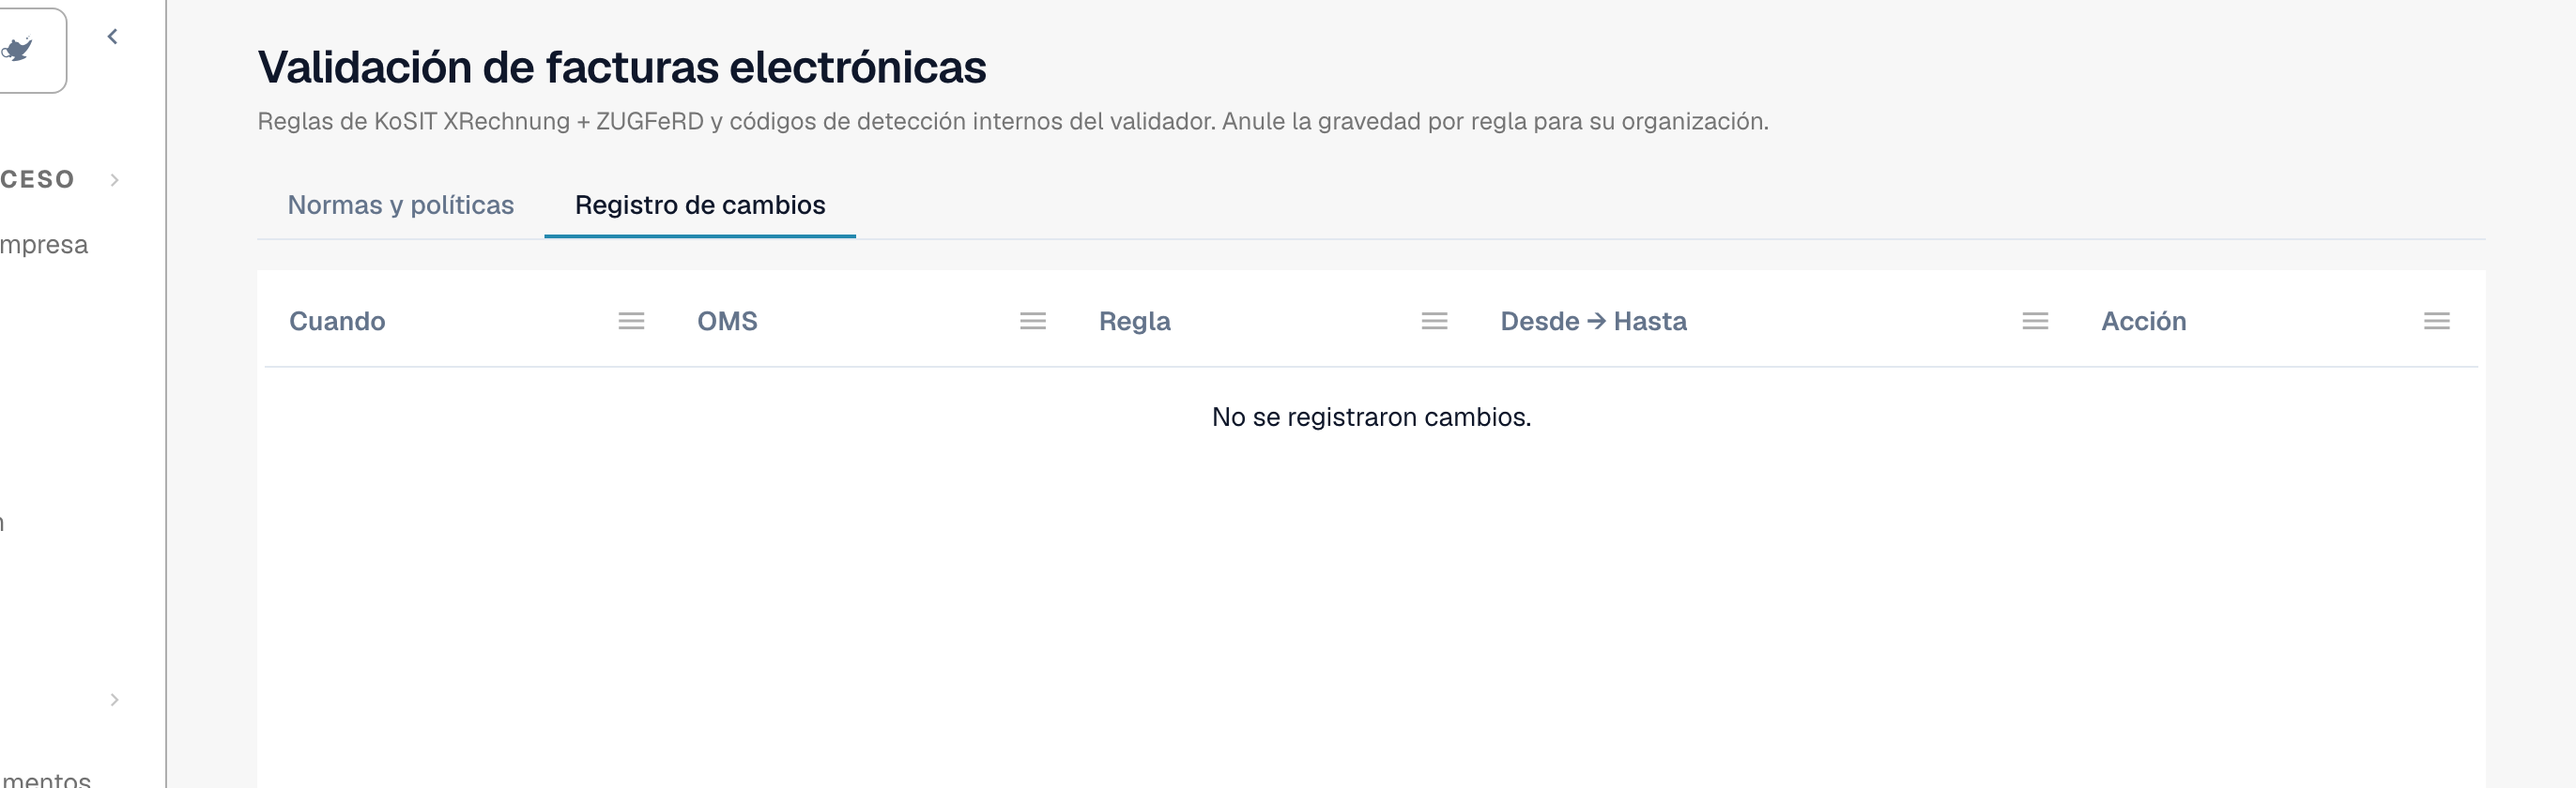
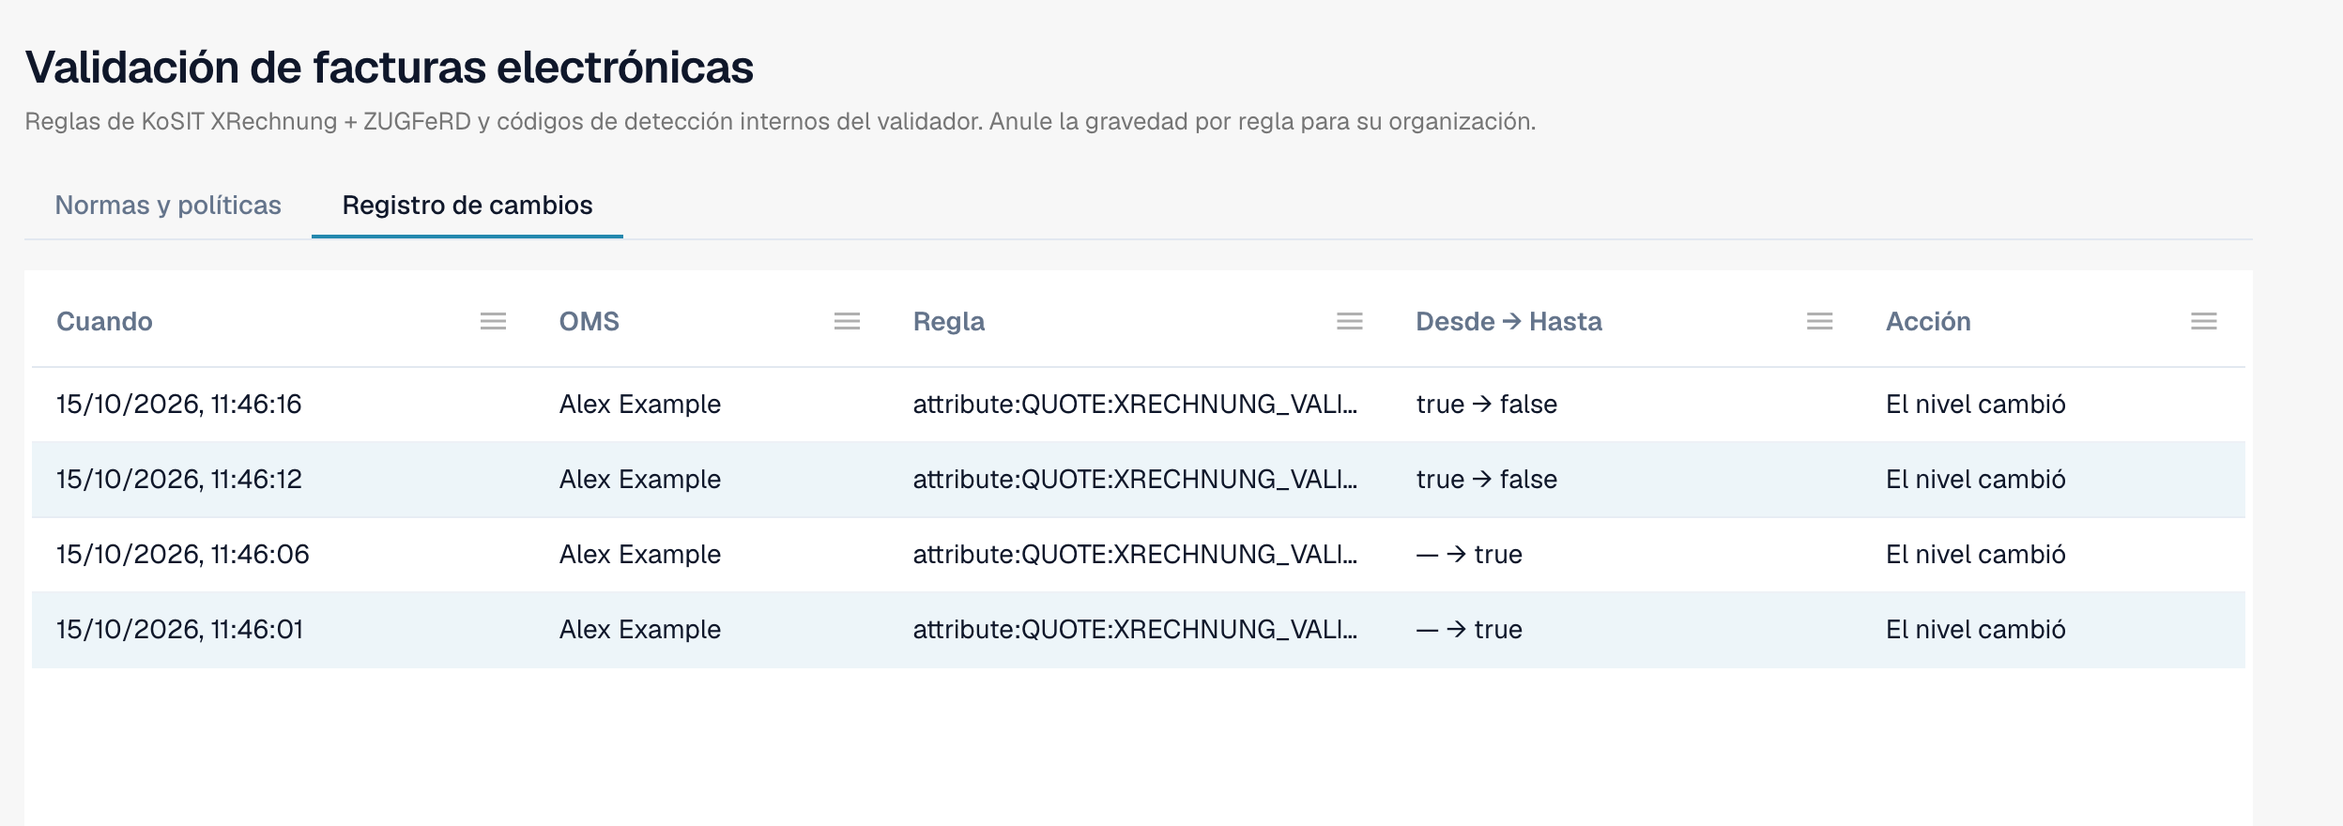
docs(es): error screen page and change log screenshot (CORE-6410)
Claude-Session: https://claude.ai/code/session_01KNaeuhcTr3YU6A9NeVaSGs

diff --git a/readme/administration-and-setup/settings/document-processing/e-documents/validation-error-screen.md b/readme/administration-and-setup/settings/document-processing/e-documents/validation-error-screen.md
@@ -1,0 +1,52 @@
+# La pantalla de error de una factura electrónica rechazada
+
+Cuando carga una factura electrónica incorrecta, DocBits no la pierde. El documento recibe el estado **Error** y la pantalla de error le indica qué está mal, dónde y qué hacer a continuación. Esta página muestra dos ejemplos: un archivo XML que no está bien formado y una factura que infringe una regla de negocio.
+
+> Una factura recibe el estado **Error** solo cuando la validación está **activada** y **bloquea** para su tipo de documento. Consulte [Validación para cada tipo de documento](validation-per-document-type.md).
+
+## Ejemplo 1: el archivo XML está dañado
+
+Un proveedor envía un archivo XML en el que una etiqueta de cierre no coincide con su etiqueta de apertura. El archivo no se puede leer, por lo que DocBits se detiene en la primera comprobación, **L1 · Bien formado**.
+
+<figure><img src="../../../../.gitbook/assets/einvoice-error-xml-malformed-es.png" alt="La pantalla de error de un archivo XML que no está bien formado: el XML a la izquierda con la línea defectuosa marcada y la explicación a la derecha"><figcaption><p>La pantalla de error de un archivo XML dañado. La línea defectuosa está marcada en el XML. Archivo de ejemplo con datos ficticios.</p></figcaption></figure>
+
+La pantalla tiene dos lados:
+
+* **Izquierda: el archivo XML.** DocBits muestra el archivo con números de línea. La línea con el problema está marcada en rojo. Use los botones situados sobre el archivo para copiar el XML o abrirlo en una pestaña nueva.
+* **Derecha: la explicación.** La tarjeta **Rechazado por** indica la comprobación que detuvo el archivo (aquí **L1 · Bien formado**) y el código de la regla (aquí `XML-PARSE`). Debajo verá un título en lenguaje claro (*XML is not well-formed*), una breve explicación y el bloque **Siguiente paso**.
+
+Seleccione **Ver detalles de validación** para abrir el [informe de validación](validation-report.md) completo.
+
+<figure><img src="../../../../.gitbook/assets/einvoice-report-xml-malformed-es.png" alt="El informe de validación del archivo XML dañado con el hallazgo XML-PARSE"><figcaption><p>El informe del archivo dañado: un error en el nivel 1 Sintaxis, con el mensaje técnico y la posición</p></figcaption></figure>
+
+El informe indica la posición exacta (aquí línea 5, columna 4081) y el mensaje técnico del analizador XML. Seleccione **Mostrar en XML** para saltar a esa línea. La indicación **Cómo solucionarlo** le dice que solicite al remitente un archivo corregido.
+
+## Ejemplo 2: la factura infringe una regla de negocio
+
+El XML es correcto, pero falta un campo obligatorio. Por ejemplo, no se puede identificar al vendedor porque no hay identificador del vendedor, identificador de registro ni identificador de IVA (regla `BR-CO-26`).
+
+<figure><img src="../../../../.gitbook/assets/einvoice-error-view-es.png" alt="La pantalla de error de una factura que infringe una regla de negocio"><figcaption><p>La pantalla de error de un error de regla de negocio: la capa <strong>L3 · Reglas de negocio</strong>, el código de la regla y un siguiente paso</p></figcaption></figure>
+
+Aquí la tarjeta indica la capa **L3 · Reglas de negocio** y el código `BR-CO-26`. El informe enumera todos los hallazgos de la factura; consulte [Informe de validación](validation-report.md).
+
+## Los botones debajo de la tarjeta
+
+| Botón | Qué hace |
+| --- | --- |
+| **Reiniciar procesamiento** | Ejecuta de nuevo el procesamiento del documento, por ejemplo después de cambiar un ajuste. La comprobación usa los ajustes actuales. |
+| **Ver DocFlow** | Muestra el flujo de trabajo del documento. |
+| **Detalles de la copia** | Copia los detalles del error, por ejemplo para un mensaje a su administrador. |
+| **Crear billete** | Abre un ticket de soporte con los detalles del error. |
+
+Seleccione **Mostrar detalles técnicos** en la tarjeta para ver la información técnica sin procesar.
+
+## Qué hacer a continuación
+
+* **Errores:** solicite al remitente una factura corregida o [rechace el documento](validation-next-step-and-reject.md). Una factura corregida es un documento nuevo.
+* **Solo advertencias:** el documento no está bloqueado. Puede continuar.
+
+## Páginas relacionadas
+
+* [Informe de validación](validation-report.md): todos los hallazgos, nivel por nivel.
+* [Siguiente paso y rechazar un documento](validation-next-step-and-reject.md)
+* [Validación para cada tipo de documento](validation-per-document-type.md): active la validación y defina el bloqueo.

diff --git a/readme/administration-and-setup/settings/document-processing/e-documents/validation-rules.md b/readme/administration-and-setup/settings/document-processing/e-documents/validation-rules.md
@@ -14,5 +14,6 @@ La página **Validación de facturas electrónicas** (**Ajustes → Documentos e
 | [Gravedad de las reglas](validation-rule-severities.md) | La tabla de reglas: cambie la gravedad de cada regla para su organización. | Administradores de la organización |
 | [Validación para cada tipo de documento](validation-per-document-type.md) | Active la validación (**Activado**) y decida si una comprobación fallida detiene el documento (**Bloqueo**). Cada cambio necesita una confirmación. | Administradores de la organización |
 | [Registro de cambios](validation-change-log.md) | Cada cambio de los ajustes: cuándo, quién, qué regla, desde → hasta. | Administradores de la organización |
+| [La pantalla de error de una factura electrónica rechazada](validation-error-screen.md) | Lo que ve al cargar un XML incorrecto: la explicación, la línea defectuosa y el siguiente paso. | Todas las personas que procesan facturas |
 | [Informe de validación](validation-report.md) | Lo que ve un usuario cuando una factura falla: los hallazgos en lenguaje claro. Se abre desde el documento, no desde esta página. | Todas las personas que procesan facturas |
 | [Siguiente paso y rechazar un documento](validation-next-step-and-reject.md) | Qué hacer después de leer el informe, la descarga del informe y **Rechazar documento**. | Todas las personas que procesan facturas |

diff --git a/readme/administration-and-setup/settings/document-processing/e-documents/validation-report.md b/readme/administration-and-setup/settings/document-processing/e-documents/validation-report.md
@@ -1,6 +1,6 @@
 # Informe de validación
 
-Cuando DocBits rechaza una factura electrónica, puede ver exactamente el motivo. El **informe de validación** enumera cada hallazgo en lenguaje claro, indica qué corregir y muestra el siguiente paso. Se abre desde el documento, no desde los ajustes.
+Cuando DocBits rechaza una factura electrónica, puede ver exactamente el motivo. El **informe de validación** enumera cada hallazgo en lenguaje claro, indica qué corregir y muestra el siguiente paso. Se abre desde el documento, no desde los ajustes. La pantalla donde lo encuentra se describe en [La pantalla de error de una factura electrónica rechazada](validation-error-screen.md).
 
 Esta página es para las personas que procesan facturas. Los administradores configuran las reglas en la página [Validación de facturas electrónicas](validation-rules.md) y eligen por tipo de documento si una comprobación fallida bloquea la factura; consulte [Validación para cada tipo de documento](validation-per-document-type.md).
 

diff --git a/readme/SUMMARY.md b/readme/SUMMARY.md
@@ -441,6 +441,7 @@
         * [Gravedad de las reglas](administration-and-setup/settings/document-processing/e-documents/validation-rule-severities.md)
         * [Validación para cada tipo de documento](administration-and-setup/settings/document-processing/e-documents/validation-per-document-type.md)
         * [Registro de cambios](administration-and-setup/settings/document-processing/e-documents/validation-change-log.md)
+        * [La pantalla de error de una factura electrónica rechazada](administration-and-setup/settings/document-processing/e-documents/validation-error-screen.md)
         * [Informe de validación](administration-and-setup/settings/document-processing/e-documents/validation-report.md)
         * [Siguiente paso y rechazar un documento](administration-and-setup/settings/document-processing/e-documents/validation-next-step-and-reject.md)
       * [Enrutamiento de notificaciones](administration-and-setup/settings/document-processing/e-documents/notification-routing.md)

diff --git a/readme/administration-and-setup/settings/document-processing/e-documents/validation-change-log.md b/readme/administration-and-setup/settings/document-processing/e-documents/validation-change-log.md
@@ -4,7 +4,7 @@ El **Registro de cambios** registra cada cambio de los ajustes de validación. P
 
 Abra la pestaña **Registro de cambios**, junto a **Normas y políticas**.
 
-<figure><img src="../../../../.gitbook/assets/einvoice-validation-change-log-es.png" alt="La pestaña Registro de cambios con las columnas Cuando, OMS, Regla, Desde → Hasta y Acción"><figcaption><p>El registro de cambios de una organización que todavía no tiene cambios</p></figcaption></figure>
+<figure><img src="../../../../.gitbook/assets/einvoice-validation-change-log-es.png" alt="La pestaña Registro de cambios con las columnas Cuando, OMS, Regla, Desde → Hasta y Acción"><figcaption><p>El registro de cambios con cuatro entradas de ejemplo. El nombre de usuario está sustituido por un nombre de ejemplo.</p></figcaption></figure>
 
 | Columna | Qué muestra |
 | --- | --- |
